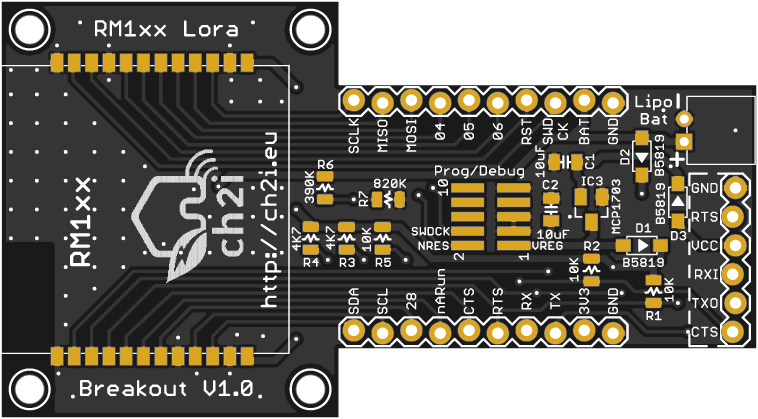
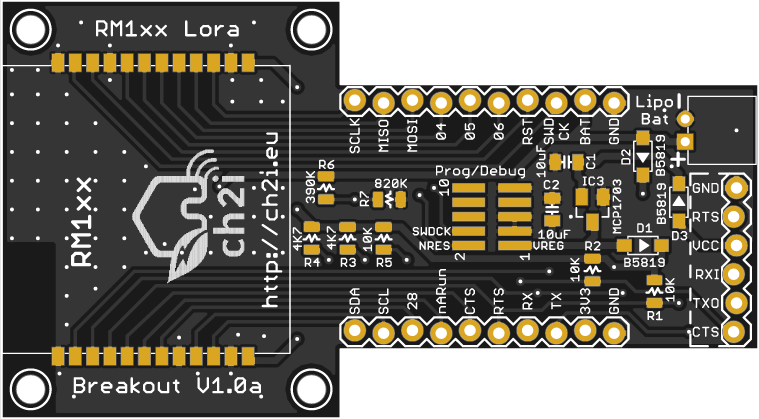
version 1.0b
Removed copper from mounting holes
Added ground via under RM1xx module

diff --git a/README.md b/README.md
@@ -52,5 +52,5 @@ See news and other projects on my [blog][2]
 
 [1]: http://www.lairdtech.com/products/rm1xx-lora-modules
 [2]: https://hallard.me
-[3]: https://PCBs.io/share/rEd28 
+[3]: https://PCBs.io/share/zeJ24 
 
